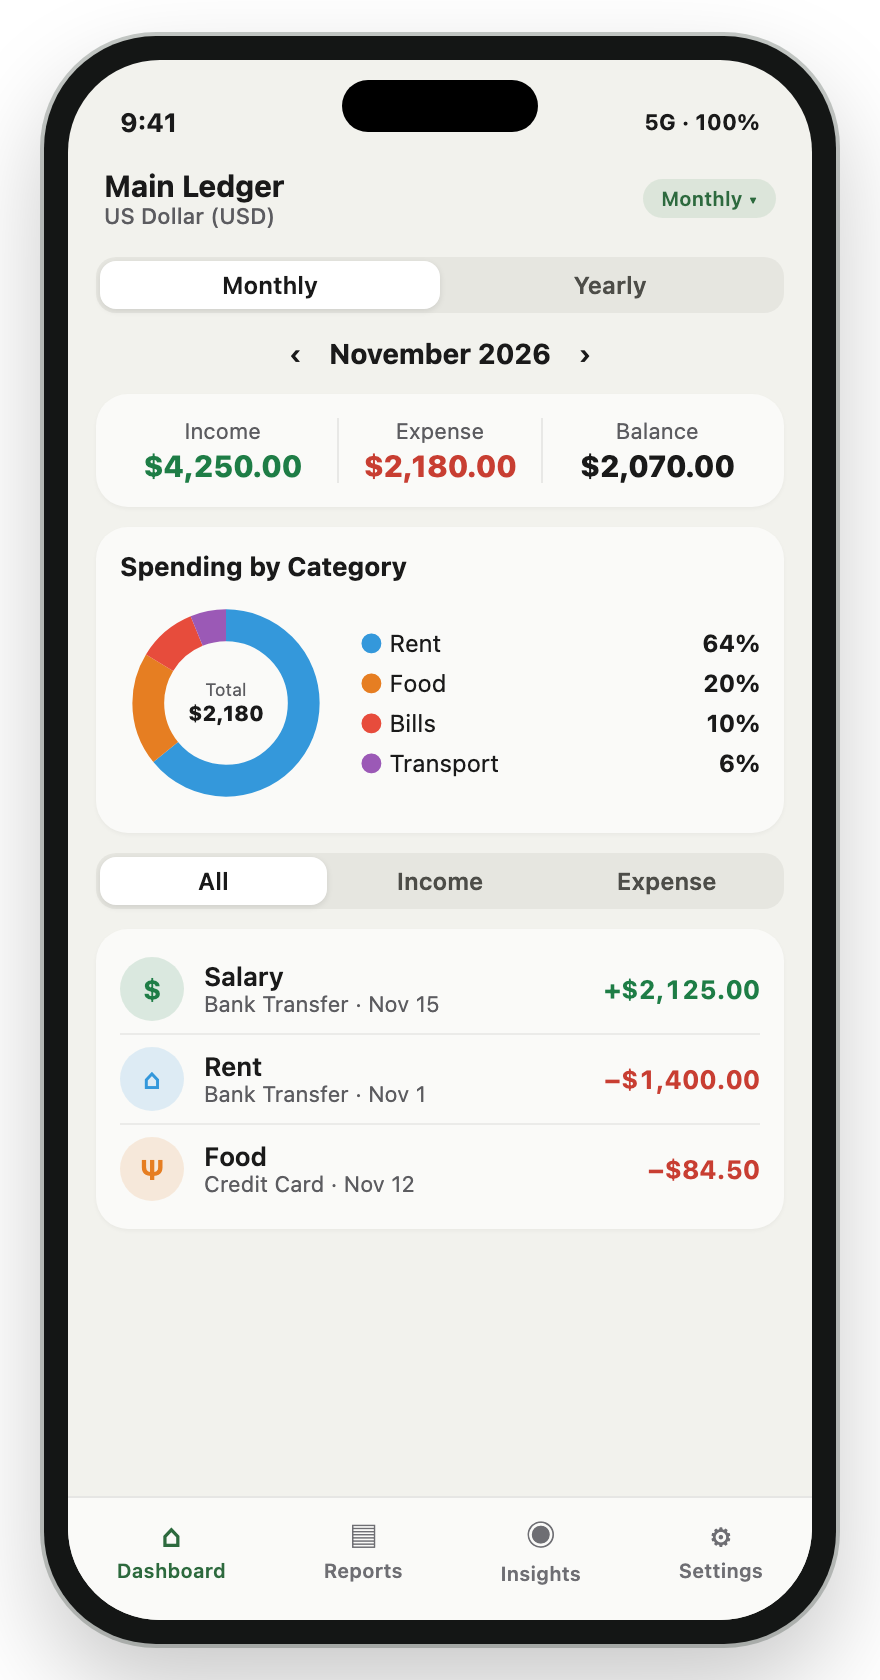
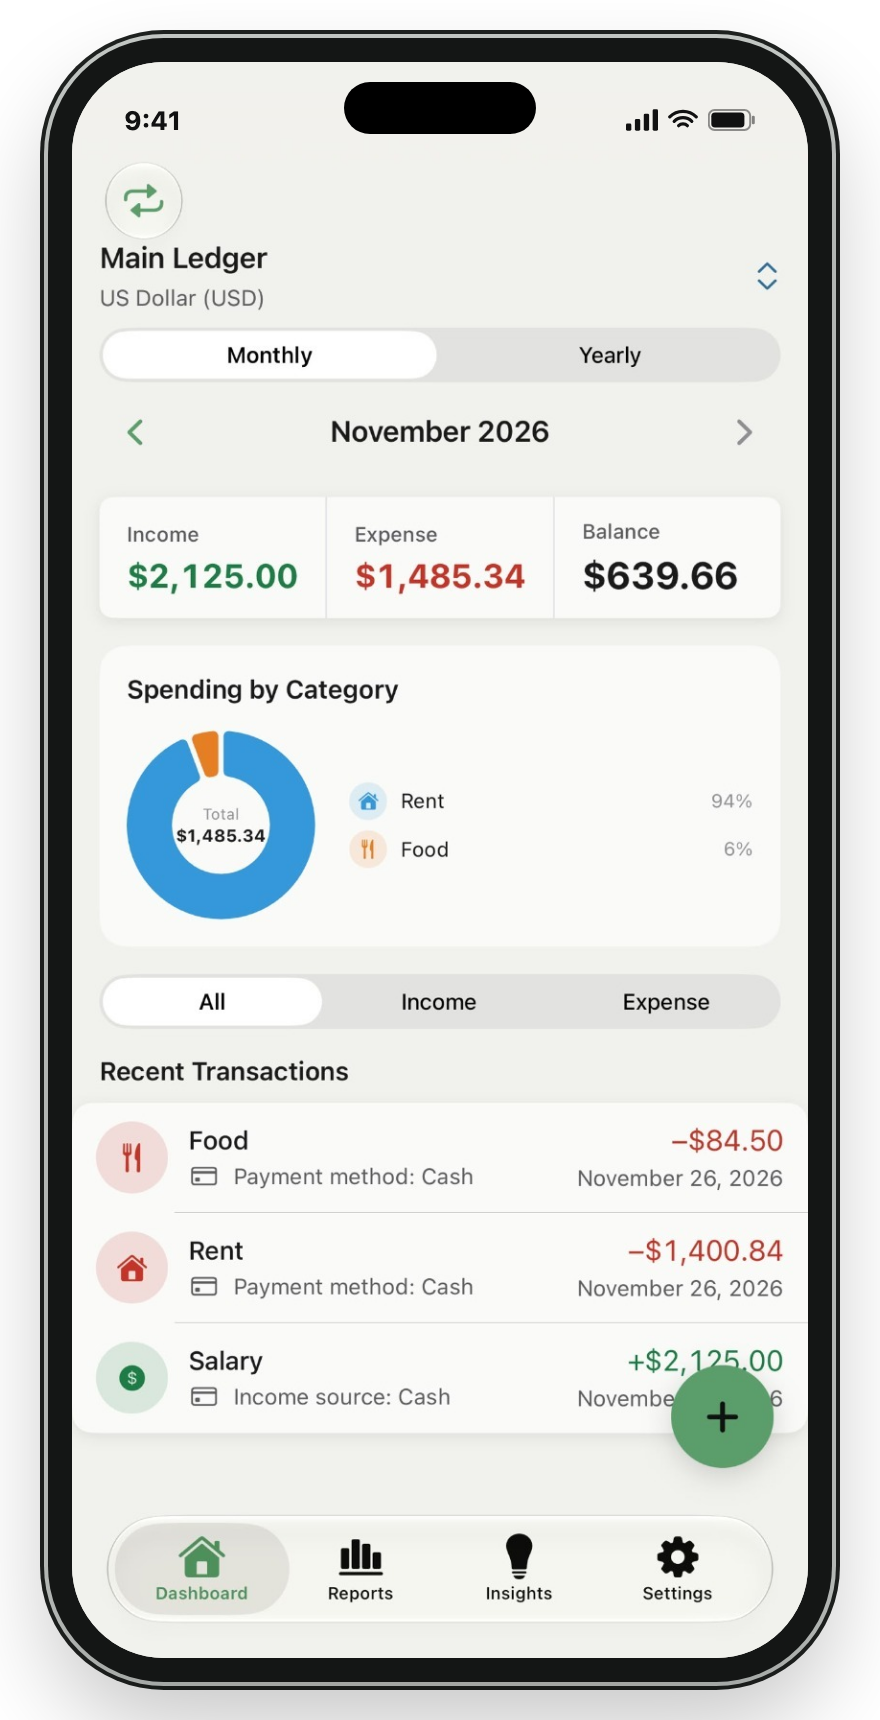
Use real framed iPhone app screenshots for 6-step How to use guide

diff --git a/index.html b/index.html
@@ -54,16 +54,16 @@
     <section id="how-to-use">
       <div class="wrap">
         <h2>How to use IncomeMate</h2>
-        <p class="lead">Everything runs locally on your iPhone in five straightforward steps. All screens below use fictional sample data.</p>
+        <p class="lead">Everything runs locally on your iPhone in six straightforward steps.</p>
         <div class="steps-grid">
           <article class="step-card">
             <div class="step-media">
-              <img src="images/step-1-dashboard.png" alt="IncomeMate Dashboard showing Main Ledger in USD, monthly income, expenses, balance, and a spending-by-category chart" width="440" height="840" loading="lazy">
+              <img src="images/step-1-dashboard.png" alt="IncomeMate Dashboard showing Main Ledger in USD, monthly income, expenses, balance, and a spending-by-category chart" width="440" height="860" loading="lazy">
             </div>
             <div class="step-copy">
               <span class="step-num">Step 1</span>
               <h3>Track your ledger at a glance</h3>
-              <p>Open the Dashboard to see your monthly or yearly Income, Expense, and Balance totals alongside a category donut chart. Keep separate ledgers in different currencies without mixing or converting amounts.</p>
+              <p>Open the Dashboard to see monthly or yearly Income, Expense, and Balance totals alongside a spending-by-category chart.</p>
               <ul>
                 <li>Switch between <strong>Monthly</strong> and <strong>Yearly</strong> totals in one tap.</li>
                 <li>Filter recent transactions by <strong>All</strong>, <strong>Income</strong>, or <strong>Expense</strong>.</li>
@@ -73,14 +73,29 @@
 
           <article class="step-card">
             <div class="step-media">
-              <img src="images/step-2-add-voice.png" alt="IncomeMate Add Transaction screen with microphone button, three queued voice entries with editable categories, and receipt capture buttons" width="440" height="840" loading="lazy">
+              <img src="images/step-2-add-entry.png" alt="IncomeMate Add Transaction screen with amount input, receipt capture buttons, income/expense toggle, and visual category picker" width="440" height="860" loading="lazy">
             </div>
             <div class="step-copy">
               <span class="step-num">Step 2</span>
-              <h3>Add entries by typing, voice, receipt, or Siri</h3>
-              <p>Tap <strong>+</strong> to type an entry, attach a receipt from Camera, Photos, or Files, or tap the microphone to speak one or several items at once.</p>
+              <h3>Add manually or attach a receipt</h3>
+              <p>Tap <strong>+</strong> to enter an amount, choose Income or Expense, pick a category, and optionally attach a receipt from Camera, Photo Library, or Files.</p>
               <ul>
-                <li>Speak lists naturally (for example, <em>“refund 45, 24.50 food, 18 transport”</em>) and tap the mic again to add more.</li>
+                <li>Apple Vision reads receipt fields locally for your review before saving.</li>
+                <li>Includes built-in categories like <strong>Salary</strong> and <strong>Refund / Side Income</strong>, plus custom ones you create.</li>
+              </ul>
+            </div>
+          </article>
+
+          <article class="step-card">
+            <div class="step-media">
+              <img src="images/step-3-voice.png" alt="IncomeMate Add Transaction screen showing three queued voice entries with inline category dropdowns and Save All (3)" width="440" height="860" loading="lazy">
+            </div>
+            <div class="step-copy">
+              <span class="step-num">Step 3</span>
+              <h3>Speak multiple entries &amp; edit inline</h3>
+              <p>Tap the microphone to speak several entries in one go. Everything queues up cleanly so you can review before saving.</p>
+              <ul>
+                <li>Tap the mic again anytime to append more entries to the same list.</li>
                 <li>Tap any queued entry’s category to change it or flip Income/Expense before tapping <strong>Save All</strong>.</li>
               </ul>
             </div>
@@ -88,10 +103,10 @@
 
           <article class="step-card">
             <div class="step-media">
-              <img src="images/step-3-statement.png" alt="IncomeMate Review Statement screen sorting income and expense rows with category menus and an Import 4 button" width="440" height="840" loading="lazy">
+              <img src="images/step-4-statement.png" alt="IncomeMate Review Statement screen sorting income and expense rows with All, Income, Expense tabs, Filter menu, and Apply to all" width="440" height="860" loading="lazy">
             </div>
             <div class="step-copy">
-              <span class="step-num">Step 3</span>
+              <span class="step-num">Step 4</span>
               <h3>Import bank &amp; card statements locally</h3>
               <p>Choose <strong>Import Statement</strong> from the <strong>+</strong> menu and pick a PDF or statement photos. IncomeMate reads them on your device and sorts both <strong>Income</strong> and <strong>Expenses</strong> by month.</p>
               <ul>
@@ -103,30 +118,30 @@
 
           <article class="step-card">
             <div class="step-media">
-              <img src="images/step-4-insights.png" alt="IncomeMate Insights screen displaying monthly category target progress bars and active recurring transactions" width="440" height="840" loading="lazy">
+              <img src="images/step-5-insights.png" alt="IncomeMate Insights screen displaying monthly category target progress bars for Bills and Food" width="440" height="860" loading="lazy">
             </div>
             <div class="step-copy">
-              <span class="step-num">Step 4</span>
-              <h3>Set targets &amp; manage recurring bills</h3>
-              <p>Use <strong>Insights</strong> to set monthly spending targets per category, review Siri drafts, and stay ahead of repeating income or bills.</p>
+              <span class="step-num">Step 5</span>
+              <h3>Set monthly targets &amp; review drafts</h3>
+              <p>Use <strong>Insights</strong> to set category spending targets, spot repeating patterns, and review Siri drafts before they post.</p>
               <ul>
-                <li>Edit or stop active recurring rules without affecting past transactions.</li>
-                <li>Swipe stopped rules right to reactivate for future dates, or left to remove them cleanly.</li>
+                <li>See actual spending vs. target progress for every category each month.</li>
+                <li>Manage active and stopped recurring bills without altering past history.</li>
               </ul>
             </div>
           </article>
 
           <article class="step-card">
             <div class="step-media">
-              <img src="images/step-5-settings.png" alt="IncomeMate Settings screen with Ledger, Organize, Preferences, App Lock, CSV export, and encrypted backups" width="440" height="840" loading="lazy">
+              <img src="images/step-6-settings.png" alt="IncomeMate Settings screen showing Ledger, Organize, Preferences, Appearance, Bill Reminders, and Siri & Shortcuts" width="440" height="860" loading="lazy">
             </div>
             <div class="step-copy">
-              <span class="step-num">Step 5</span>
-              <h3>Customize, lock &amp; back up your data</h3>
-              <p>Open <strong>Settings</strong> to manage ledgers, create custom categories with visual icons, turn on bill reminders or Siri drafts, and protect your data.</p>
+              <span class="step-num">Step 6</span>
+              <h3>Organize, lock &amp; back up your data</h3>
+              <p>Open <strong>Settings</strong> to switch ledgers, customize categories with visual icons, set Light/Dark mode, and turn on reminders or Siri drafts.</p>
               <ul>
-                <li>Enable <strong>App Lock</strong> with Face ID, Touch ID, or device passcode.</li>
-                <li>Create password-encrypted <code>.imbk</code> backups or export any custom date range to CSV.</li>
+                <li>Protect your data with optional Face ID / passcode <strong>App Lock</strong>.</li>
+                <li>Create password-encrypted <code>.imbk</code> backups or export any date range to CSV.</li>
               </ul>
             </div>
           </article>
